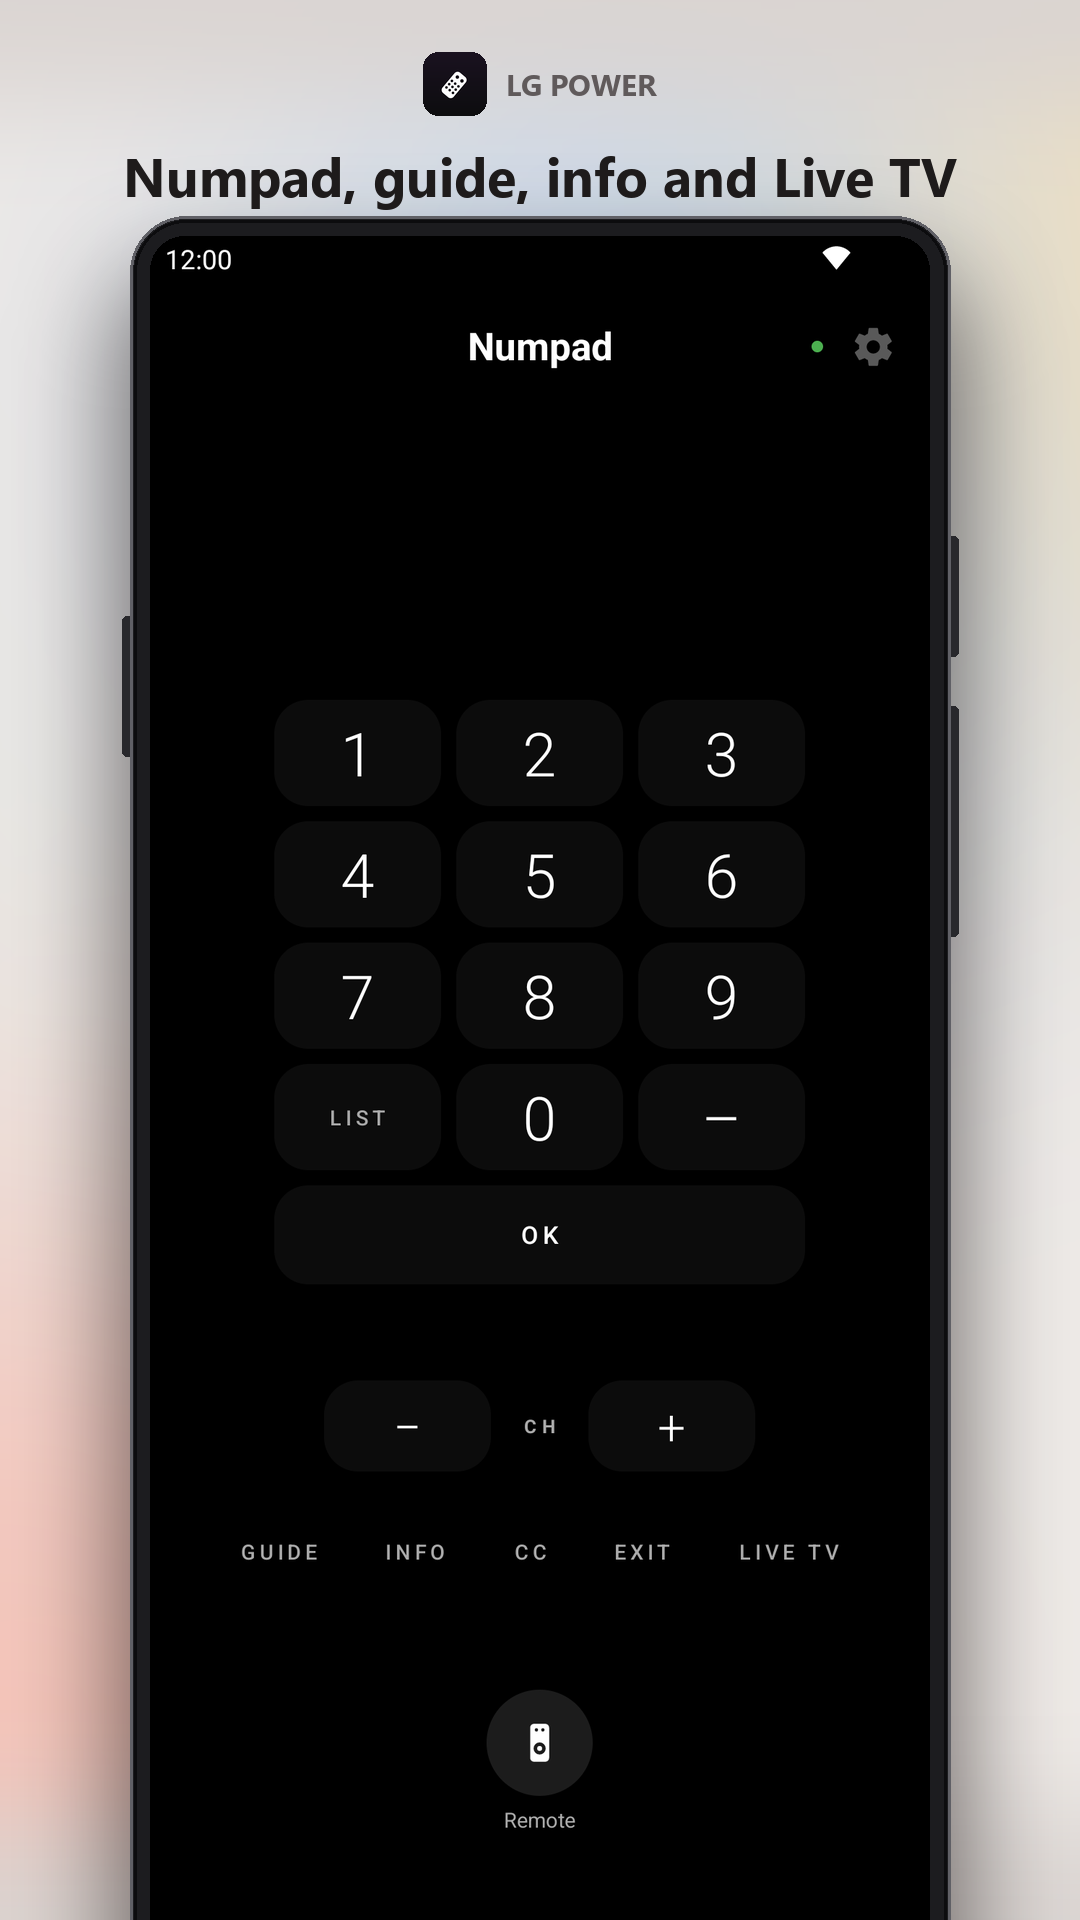
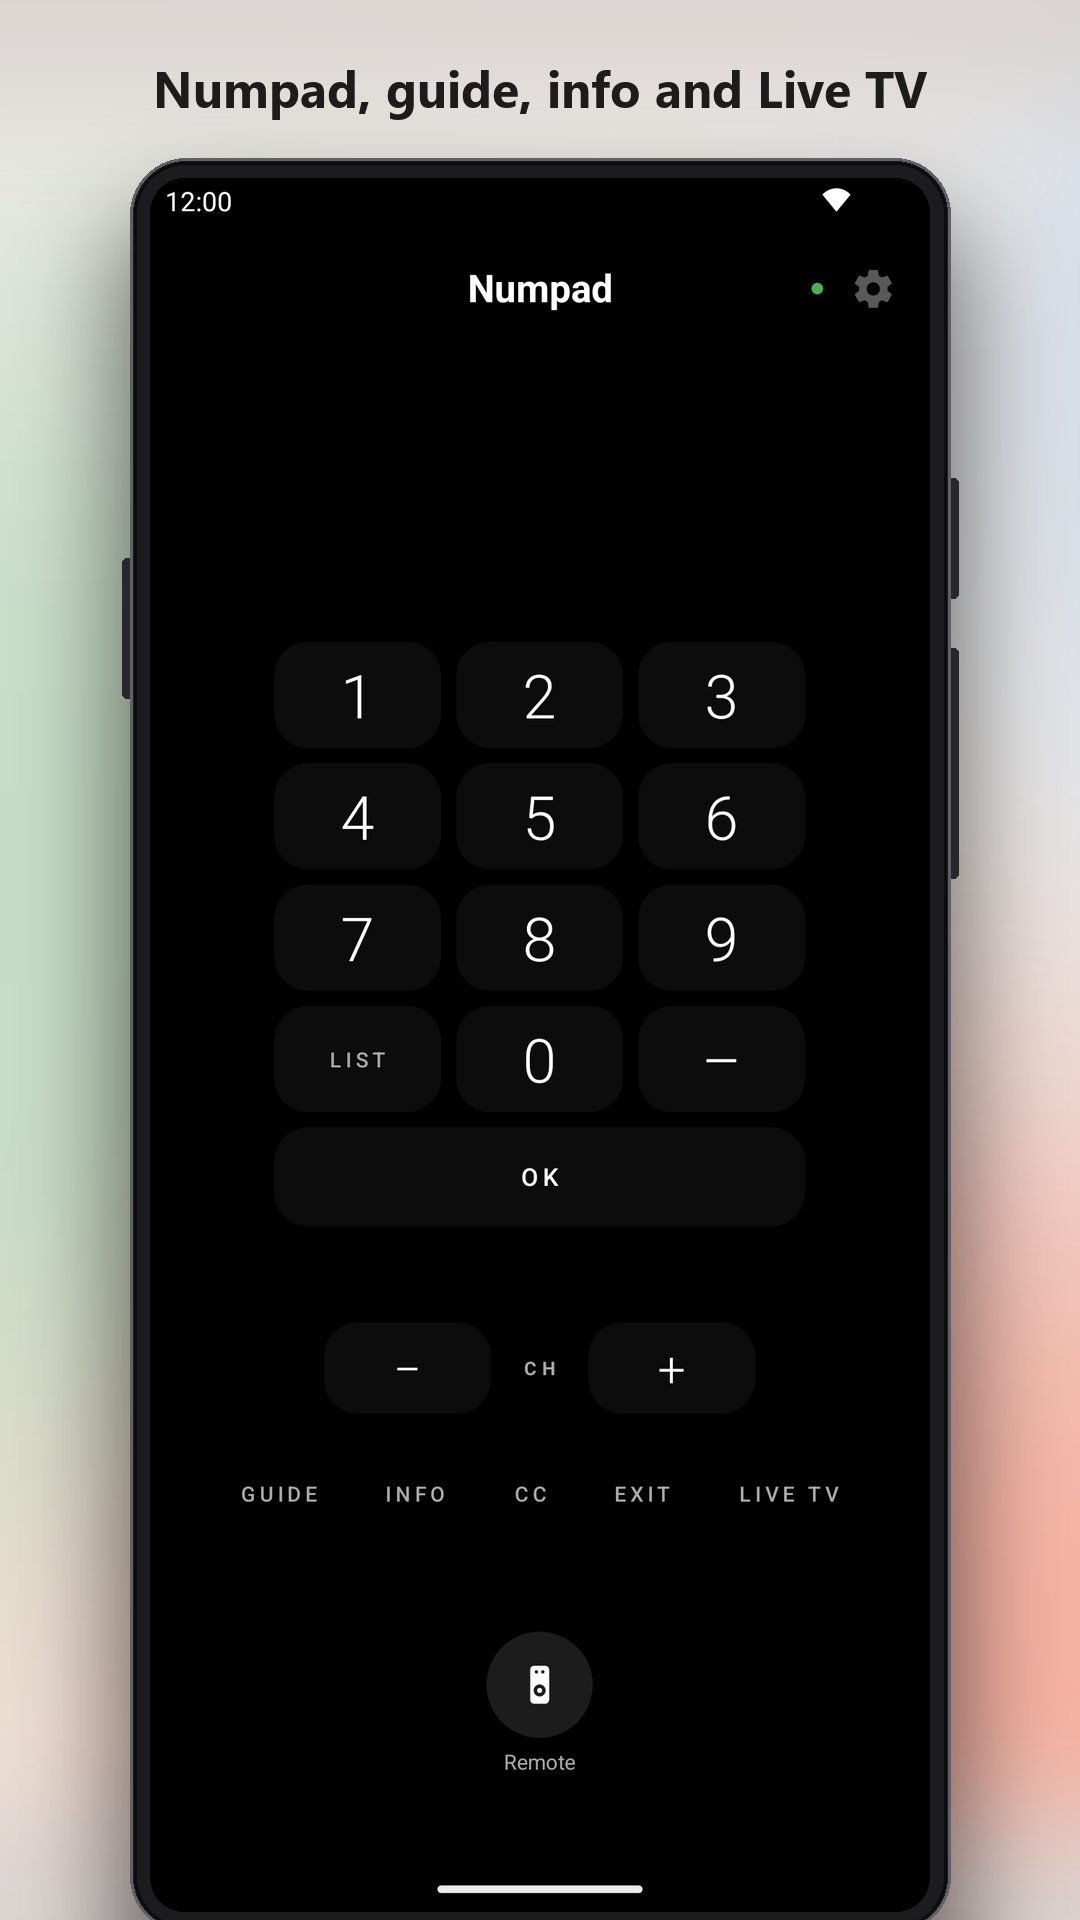
Store screenshots v3: caption only, continuous background, phone lifted

diff --git a/store/screenshots/_frame.py b/store/screenshots/_frame.py
@@ -1,6 +1,6 @@
 """Compose raw 1080x2400 captures into 1080x1920 Play screenshots: one continuous pastel
 background runs across the whole set, so the right edge of each shot meets the left edge of
-the next; a graphite bezel, one big phone, the app icon and name, and a caption.
+the next; a graphite bezel, one big phone and a caption.
 
 Usage: python _frame.py <raw_dir> <out_dir>   (reads <raw_dir>/captions.json: [{out, image, caption}])
 The bezel and screen mask come from tools/faketv/produce.py so the shots match the video.
@@ -14,11 +14,13 @@ ARGS = sys.argv[1:]
 spec = importlib.util.spec_from_file_location("produce", os.path.join(FAKETV, "produce.py"))
 sys.argv = ["produce.py", os.path.join(FAKETV, "tour_raw.mp4")]
 produce = importlib.util.module_from_spec(spec); spec.loader.exec_module(produce)
-W, H, PW, PH, PX, PY = produce.W, produce.H, produce.PW, produce.PH, produce.PX, produce.PY
+W, H, PW, PH, PX = produce.W, produce.H, produce.PW, produce.PH, produce.PX
 INK, MUTED = (30, 27, 27), (96, 90, 91)
 BASE, EDGE = (238, 234, 231), (218, 212, 209)
-# The four pastels of the video background, cycled along the strip
-PASTELS = [(246, 190, 178), (184, 206, 234), (244, 222, 180), (214, 226, 214)]
+# The four pastels of the video background, a touch stronger so the strip reads as one
+PASTELS = [(246, 176, 160), (168, 198, 236), (246, 214, 158), (196, 222, 198)]
+# Without the header the phone moves up and shows more of its bottom edge
+PY = 178
 
 
 def font(bold, size):
@@ -32,18 +34,19 @@ def panorama(n):
     img = Image.new("RGB", (TW, H), BASE)
     blobs = Image.new("RGB", (TW, H), BASE)
     d = ImageDraw.Draw(blobs)
-    step = int(W * 0.66)
-    x = -300
+    # One blob per ~three quarters of a screen, so every seam has a blob straddling it
+    step = int(W * 0.75)
+    x = -200
     i = 0
-    while x < TW + 300:
-        r = 470 + (i % 3) * 60
-        cy = [280, 1500, 880, 1750, 420][i % 5]
+    while x < TW + 400:
+        r = 560 + (i % 3) * 60
+        cy = [260, 1560, 900, 1760, 380][i % 5]
         c = PASTELS[i % len(PASTELS)]
-        d.ellipse([x - r, cy - r * 0.9, x + r, cy + r * 0.9], fill=c)
+        d.ellipse([x - r, cy - r * 0.95, x + r, cy + r * 0.95], fill=c)
         x += step
         i += 1
-    blobs = blobs.filter(ImageFilter.GaussianBlur(220))
-    img = Image.blend(img, blobs, 0.85)
+    blobs = blobs.filter(ImageFilter.GaussianBlur(200))
+    img = Image.blend(img, blobs, 0.95)
     # Soft top and bottom fall-off only; left/right must stay seamless
     vig = Image.new("L", (TW, H), 255)
     dv = ImageDraw.Draw(vig)
@@ -58,42 +61,38 @@ def panorama(n):
 
 def build_static():
     bz = os.path.join(SC, "prod_bezel.png"); mk = os.path.join(SC, "prod_mask.png")
+    produce.PY = PY
     produce.bezel(bz); produce.screen_mask(mk)
     bezel, mask = Image.open(bz).convert("RGBA"), Image.open(mk).convert("L")
     os.remove(bz); os.remove(mk)
-    icon = Image.open(os.path.join(SC, "..", "play_icon_512.png")).convert("RGBA").resize((64, 64), Image.LANCZOS)
-    m = Image.new("L", (64, 64), 0)
-    ImageDraw.Draw(m).rounded_rectangle([0, 0, 63, 63], 15, fill=255)
-    icon.putalpha(m)
-    return bezel, mask, icon
+    return bezel, mask
 
 
-def frame(raw_path, caption, out_path, base, bezel, mask, icon):
+def frame(raw_path, caption, out_path, base, bezel, mask):
     canvas = base.copy()
     canvas.paste(bezel, (0, 0), bezel)
     scr = Image.open(raw_path).convert("RGB").resize((PW, PH), Image.LANCZOS)
     canvas.paste(scr, (PX, PY), mask)
     d = ImageDraw.Draw(canvas)
-    f_name, f_cap = font(True, 30), font(True, 54)
-    name = "LG POWER"
-    nw = d.textlength(name, font=f_name)
-    total = 64 + 18 + nw
-    x0 = (W - total) / 2
-    canvas.paste(icon, (int(x0), 52), icon)
-    d.text((x0 + 64 + 18, 52 + 32 - 21), name, font=f_name, fill=MUTED)
-    cw = d.textlength(caption, font=f_cap)
-    d.text(((W - cw) / 2, 138), caption, font=f_cap, fill=INK)
+    # Caption never runs wider than the phone screen; long ones shrink to fit
+    size = 54
+    while True:
+        f_cap = font(True, size)
+        cw = d.textlength(caption, font=f_cap)
+        if cw <= PW or size <= 36: break
+        size -= 2
+    d.text(((W - cw) / 2, 52 + (54 - size) // 2), caption, font=f_cap, fill=INK)
     canvas.save(out_path, optimize=True)
 
 
 def main(raw_dir, out_dir):
     os.makedirs(out_dir, exist_ok=True)
     specs = json.load(open(os.path.join(raw_dir, "captions.json"), encoding="utf8"))
-    bezel, mask, icon = build_static()
+    bezel, mask = build_static()
     strip = panorama(len(specs))
     for i, s in enumerate(specs):
         base = strip.crop((i * W, 0, (i + 1) * W, H))
-        frame(os.path.join(raw_dir, s["image"] + ".png"), s["caption"], os.path.join(out_dir, s["out"] + ".png"), base, bezel, mask, icon)
+        frame(os.path.join(raw_dir, s["image"] + ".png"), s["caption"], os.path.join(out_dir, s["out"] + ".png"), base, bezel, mask)
         print("framed", s["out"])
 
 
